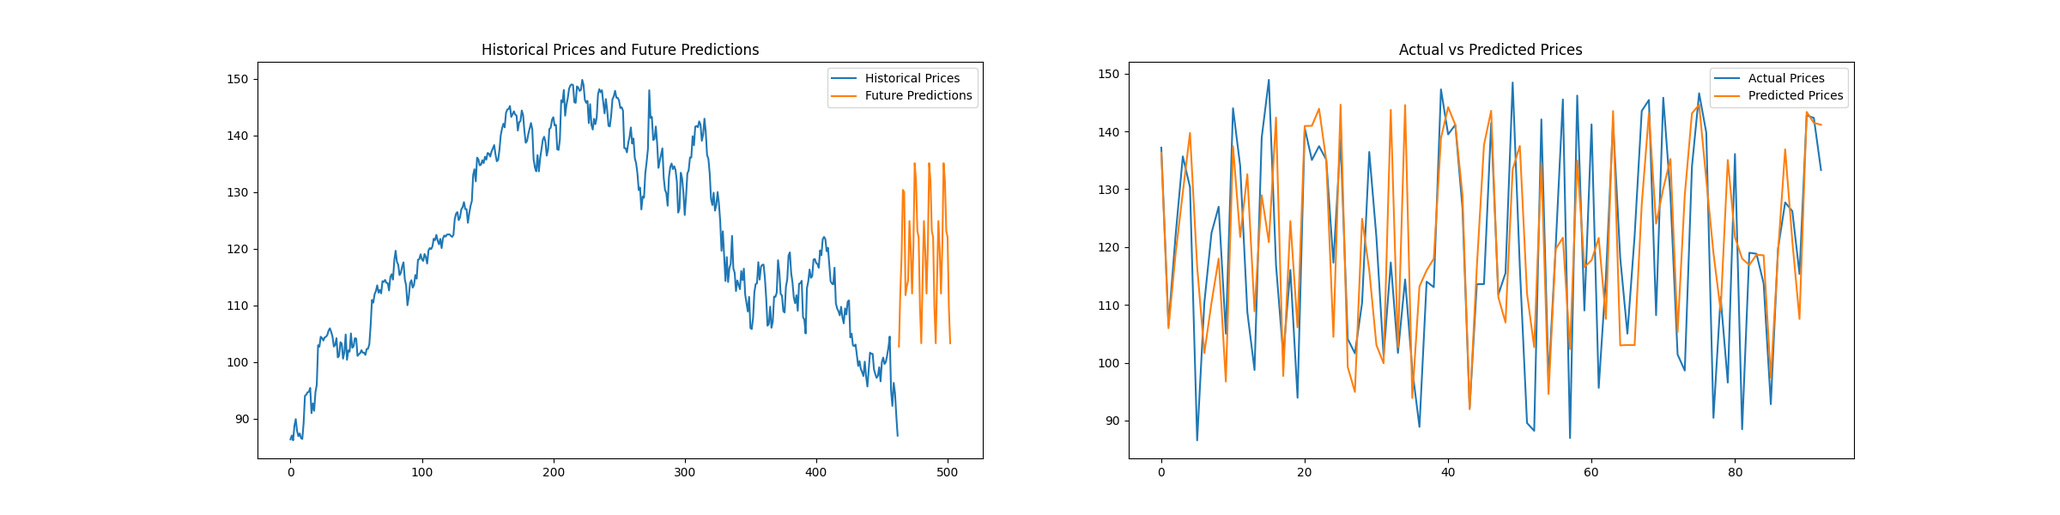
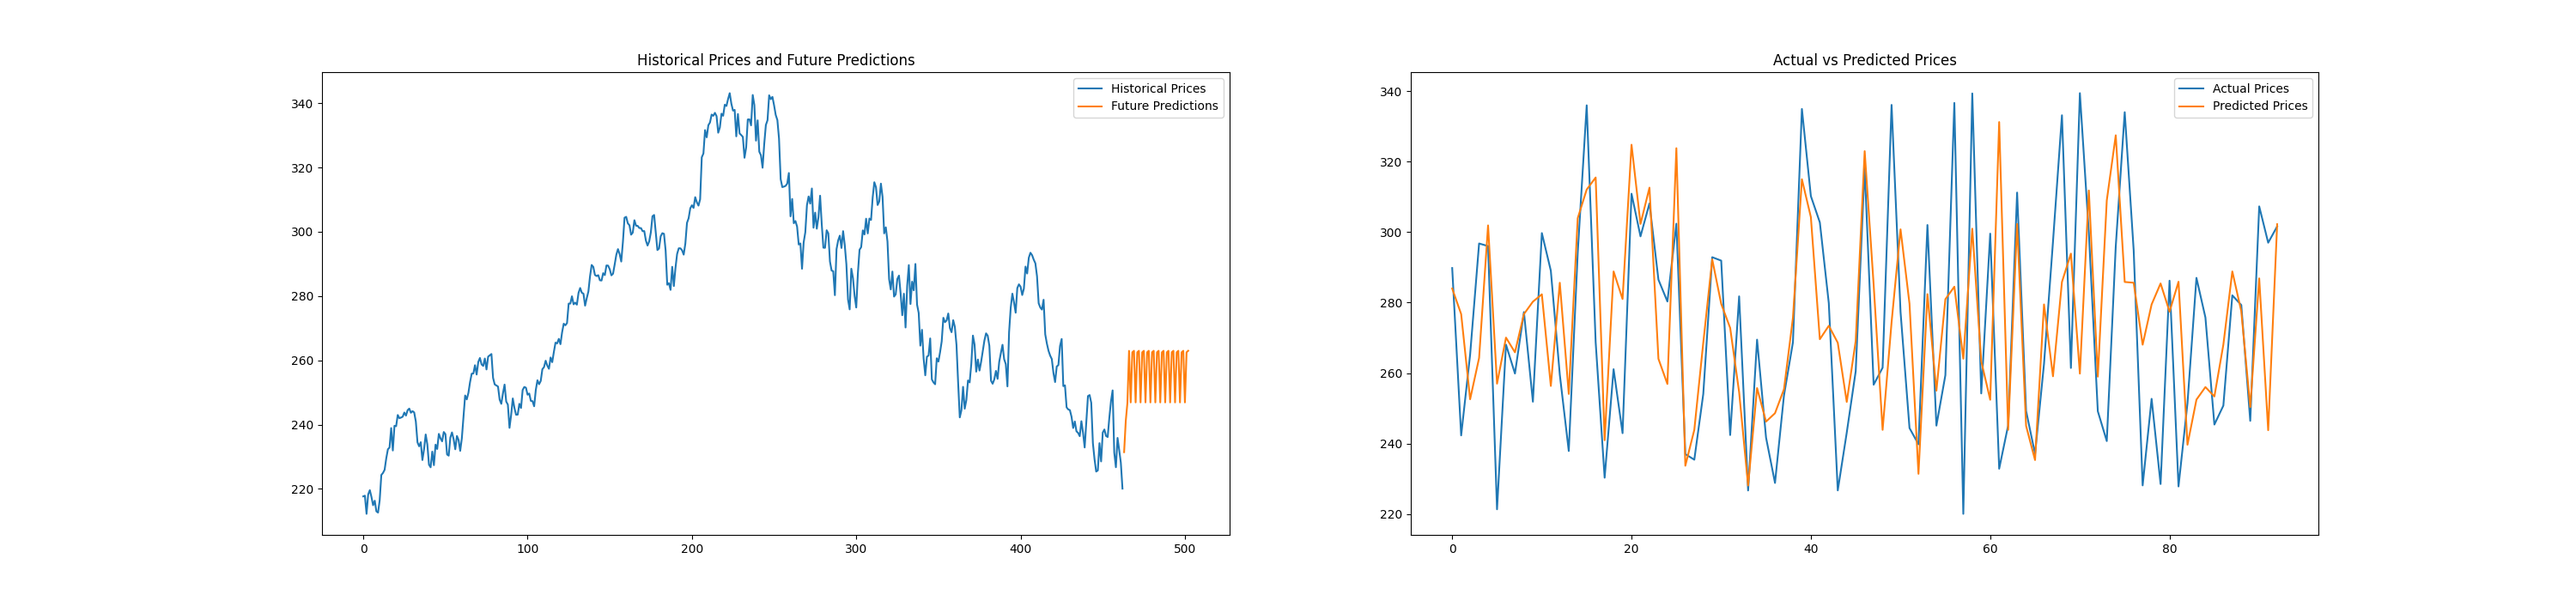
ALl

diff --git a/main.py b/main.py
@@ -5,6 +5,7 @@ from sklearn.model_selection import train_test_split
 from sklearn.ensemble import RandomForestRegressor
 import yfinance as yf
 import flet as ft
+import threading
 
 def fetch_and_predict(ticker, start_date, end_date, future_days):
     # Download the stock data
@@ -54,7 +55,7 @@ def fetch_and_predict(ticker, start_date, end_date, future_days):
         last_day = prediction
 
     # Plot and save the historical prices and predictions
-    plt.figure(figsize=(24, 5))
+    plt.figure(figsize=(30, 7))
 
     # Historical Prices and Predictions
     plt.subplot(1, 2, 1)
@@ -75,22 +76,20 @@ def fetch_and_predict(ticker, start_date, end_date, future_days):
 
     return mse
 
-def main(page: ft.Page):
-    page.title = "Stock Price Predictor"
+def on_predict_click(e, page):
+    ticker = ticker_input.value
+    start_date = start_date_input.value
+    end_date = end_date_input.value
+    future_days_str = future_days_input.value
 
-    def on_predict_click(e):
-        ticker = ticker_input.value
-        start_date = start_date_input.value
-        end_date = end_date_input.value
-        future_days_str = future_days_input.value
+    # Validate future_days input
+    if not future_days_str or not future_days_str.isdigit():
+        page.add(ft.Text("Error: 'Future Days' must be a valid integer.", color="red"))
+        return
 
-        # Validate future_days input
-        if not future_days_str or not future_days_str.isdigit():
-            page.add(ft.Text("Error: 'Future Days' must be a valid integer.", color="red"))
-            return
+    future_days = int(future_days_str)
 
-        future_days = int(future_days_str)
-
+    def run_prediction():
         result = fetch_and_predict(ticker, start_date, end_date, future_days)
         
         if isinstance(result, str) and result.startswith("Error"):
@@ -100,14 +99,16 @@ def main(page: ft.Page):
         mse = result
         page.add(ft.Text(f"Mean Squared Error: {mse}"))
 
-        # Add images and texts for plots if selected
-        if show_hist_plot.value or show_actual_vs_predicted_plot.value:
-            page.add(ft.Text("Historical Prices, Predictions and Actual vs Predicted"))
-            try:
-                page.add(ft.Image(src="combined_plot.png"))
-            except Exception as e:
-                page.add(ft.Text(f"Error loading combined plot image: {e}", color="red"))
+        # Add the Result.png image to the page
+        page.add(ft.Image(src="Result.png"))
 
+    # Run the prediction in a separate thread
+    threading.Thread(target=run_prediction).start()
+
+def main(page: ft.Page):
+    page.title = "Stock Price Predictor"
+
+    global ticker_input, start_date_input, end_date_input, future_days_input
     ticker_input = ft.TextField(label="Stock Ticker", value="")
     start_date_input = ft.TextField(label="Start Date (YYYY-MM-DD)", value="2021-01-01")
     end_date_input = ft.TextField(label="End Date (YYYY-MM-DD)", value="2023-01-01")
@@ -116,7 +117,7 @@ def main(page: ft.Page):
     show_hist_plot = ft.Checkbox(label="Historical Prices and Predictions", value=True)
     show_actual_vs_predicted_plot = ft.Checkbox(label="Actual vs Predicted Prices", value=True)
     
-    predict_button = ft.ElevatedButton(text="Predict", on_click=on_predict_click)
+    predict_button = ft.ElevatedButton(text="Predict", on_click=lambda e: on_predict_click(e, page))
 
     page.add(ticker_input)
     page.add(start_date_input)
